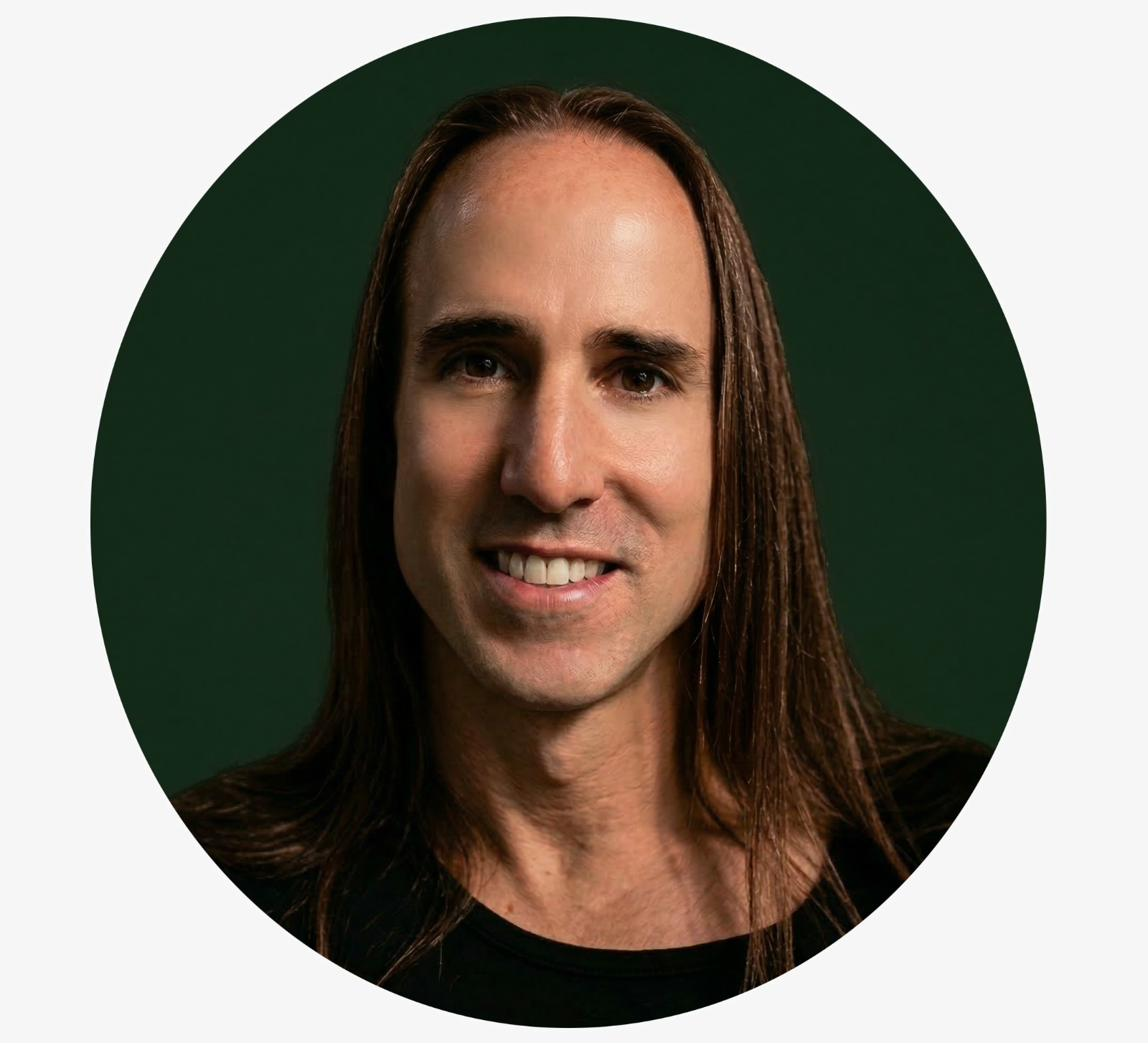
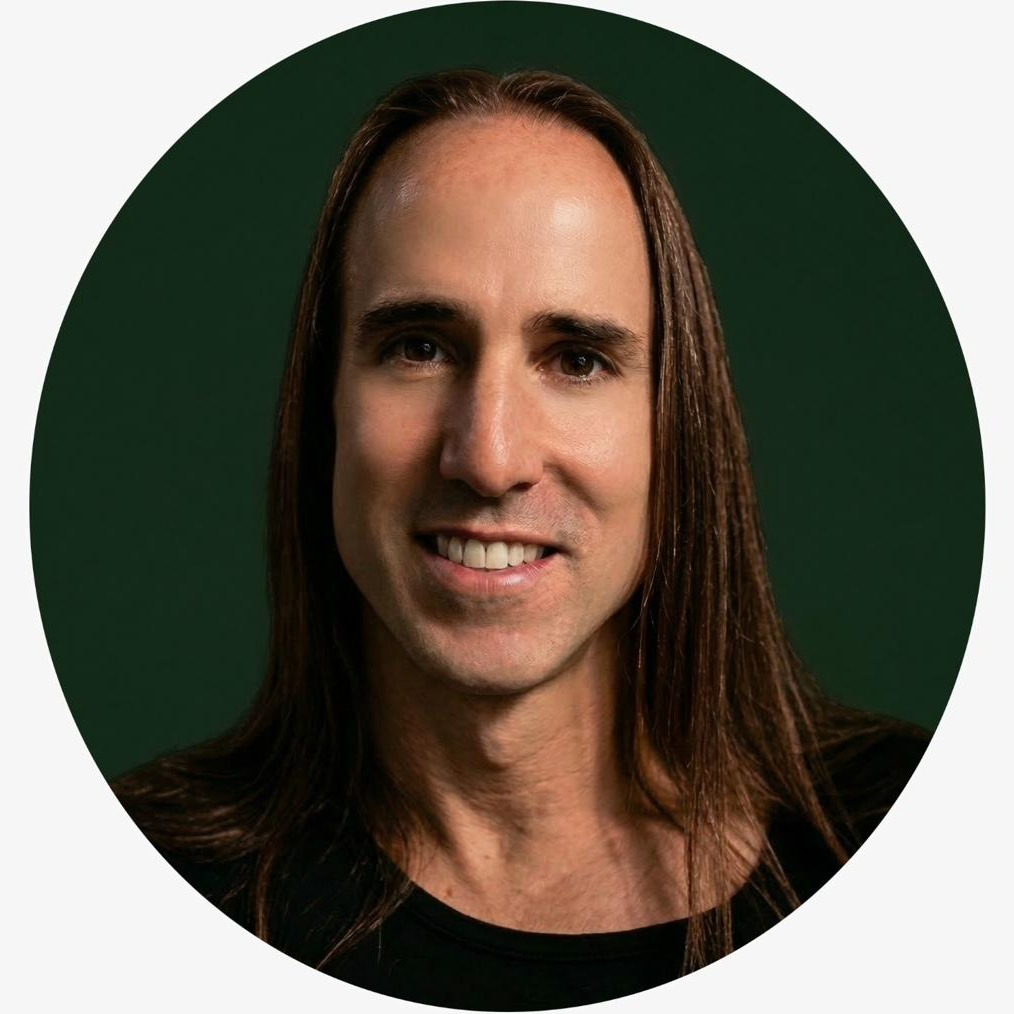
Emotion copy pass, image fixes, gold CTAs (both landers)
- Hero (A) + section 2 (A+B): pure emotion, open sea & mountain, breathtaking;
  dropped protected/forever/cant-be-taken framing
- \"and feel it for yourself\" (A); Sauna & Ice Bath (drop spa)
- Registered leasehold everywhere (drop 30-year/30-yr)
- Residence CTAs -> gold (brownish), text \"Enquire for this unit\"
- 3BR cover swapped to res-living2; bay image caption kept
- Fixed Dr Goodman white frame (cropped headshot to content)
- Video poster now the buyer (cropped from the Short thumbnail)

Changed region(s): [[0.0306, 0.0, 0.9783, 1.0], [0.1834, 0.7337, 0.214, 0.7643]]

diff --git a/b.html b/b.html
@@ -5,11 +5,11 @@
 <meta name="viewport" content="width=device-width, initial-scale=1.0">
 <title>Sea-View Residences Earning up to 15.3% a Year | Gaia Residence Koh Phangan</title>
 <meta name="robots" content="noindex">
-<meta name="description" content="Own a 180° sea-view residence on Koh Phangan. 30-year registered leasehold, fully managed turnkey rental, up to 15.3% ROI. Already building, walk a finished residence today.">
+<meta name="description" content="Own a 180° sea-view residence on Koh Phangan. registered leasehold, fully managed turnkey rental, up to 15.3% ROI. Already building, walk a finished residence today.">
 
 <!-- Open Graph (for FB/IG ad link previews) -->
 <meta property="og:title" content="Own a 180° Sea-View Residence on Koh Phangan, From ฿6.9M">
-<meta property="og:description" content="30-year registered leasehold · Fully managed rental · Already building. Chat on WhatsApp or book a viewing of the finished residence.">
+<meta property="og:description" content="registered leasehold · Fully managed rental · Already building. Chat on WhatsApp or book a viewing of the finished residence.">
 <meta property="og:image" content="assets/hero-seaview.webp">
 <meta property="og:type" content="website">
 
@@ -383,7 +383,7 @@ header.scrolled .wordmark{color:var(--forest);text-shadow:none}
       <button class="btn btn-gold" data-quiz>Find your residence →</button>
     </div>
     <div class="hero-chips">
-      <span class="chip"><svg viewBox="0 0 24 24" fill="none" stroke="currentColor" stroke-width="2.4"><path d="M4 12l5 5L20 6"/></svg>30-year leasehold, registered in your name</span>
+      <span class="chip"><svg viewBox="0 0 24 24" fill="none" stroke="currentColor" stroke-width="2.4"><path d="M4 12l5 5L20 6"/></svg>Registered leasehold, in your own name</span>
       <span class="chip"><svg viewBox="0 0 24 24" fill="none" stroke="currentColor" stroke-width="2.4"><path d="M4 12l5 5L20 6"/></svg>A finished residence you can walk today</span>
     </div>
     <div style="margin-top:22px">
@@ -400,7 +400,7 @@ header.scrolled .wordmark{color:var(--forest);text-shadow:none}
 <!-- ============ TRUST BAR ============ -->
 <section class="trustbar" data-ab="trustbar">
   <div class="wrap">
-    <div class="ti"><svg viewBox="0 0 24 24" fill="none" stroke="currentColor" stroke-width="1.6"><path d="M12 3l8 4v5c0 5-3.5 8-8 9-4.5-1-8-4-8-9V7l8-4Z"/><path d="M9 12l2 2 4-4"/></svg><div><b>30-yr leasehold</b><small>Registered in your name</small></div></div>
+    <div class="ti"><svg viewBox="0 0 24 24" fill="none" stroke="currentColor" stroke-width="1.6"><path d="M12 3l8 4v5c0 5-3.5 8-8 9-4.5-1-8-4-8-9V7l8-4Z"/><path d="M9 12l2 2 4-4"/></svg><div><b>Registered leasehold</b><small>Registered in your name</small></div></div>
     <div class="ti"><svg viewBox="0 0 24 24" fill="none" stroke="currentColor" stroke-width="1.6"><path d="M3 21h18M5 21V8l7-5 7 5v13"/><path d="M9 21v-6h6v6"/></svg><div><b>Already building</b><small>First handovers Q4 2026</small></div></div>
     <div class="ti"><svg viewBox="0 0 24 24" fill="none" stroke="currentColor" stroke-width="1.6"><circle cx="12" cy="12" r="9"/><path d="M8 12l2.5 2.5L16 9"/></svg><div><b>Finished residence</b><small>See it in person</small></div></div>
     <div class="ti"><svg viewBox="0 0 24 24" fill="none" stroke="currentColor" stroke-width="1.6"><path d="M3 7h18v12H3z"/><path d="M3 11h18M8 15h3"/></svg><div><b>100% managed</b><small>Hands-off rental income</small></div></div>
@@ -412,13 +412,13 @@ header.scrolled .wordmark{color:var(--forest);text-shadow:none}
   <div class="wrap">
     <div class="split">
       <div>
-        <div class="eyebrow">The View Is Protected By Law</div>
-        <h2>180° of open sea. Forever.</h2>
-        <p class="intro">Every Gaia residence faces a full 180° sweep of the Gulf, and forest-zoning protection means nothing will ever be built to block it. Two minutes' walk to the beach, set into the green hills above Chaloklum.</p>
+        <div class="eyebrow">The View</div>
+        <h2>The kind of view you rearrange your day for.</h2>
+        <p class="intro">Every Gaia residence opens onto a full 180° sweep of Chaloklum Bay. Open sea ahead, green mountains framing it, the beach two minutes down the hill. Wake up to it, work beside it, and watch the sun fall into it every evening.</p>
         <ul class="feat" style="font-size:16px;color:var(--ink)">
-          <li style="list-style:none;padding-left:24px;position:relative;margin-bottom:8px"><span style="position:absolute;left:0;color:var(--gold)">✓</span> Guaranteed sea views</li>
-          <li style="list-style:none;padding-left:24px;position:relative;margin-bottom:8px"><span style="position:absolute;left:0;color:var(--gold)">✓</span> 2-minute walk to the beach</li>
-          <li style="list-style:none;padding-left:24px;position:relative;margin-bottom:8px"><span style="position:absolute;left:0;color:var(--gold)">✓</span> Quiet, green hillside in Chaloklum village</li>
+          <li style="list-style:none;padding-left:24px;position:relative;margin-bottom:8px"><span style="position:absolute;left:0;color:var(--gold)">✓</span> 180° open sea and mountain views</li>
+          <li style="list-style:none;padding-left:24px;position:relative;margin-bottom:8px"><span style="position:absolute;left:0;color:var(--gold)">✓</span> Two minutes' walk to the beach</li>
+          <li style="list-style:none;padding-left:24px;position:relative;margin-bottom:8px"><span style="position:absolute;left:0;color:var(--gold)">✓</span> Breathtaking from sunrise to sunset</li>
         </ul>
       </div>
       <div class="media"><img src="assets/hero-bay.jpg" alt="180 degree sea view over Chaloklum Bay from Gaia Residence" loading="lazy"><span class="media-cap">A view from the project</span></div>
@@ -431,12 +431,12 @@ header.scrolled .wordmark{color:var(--forest);text-shadow:none}
   <div class="wrap">
     <div class="eyebrow">Ownership You Can Trust</div>
     <h2>100% safe, and 100% yours.</h2>
-    <p class="intro">Your residence is held on a 30-year registered leasehold in your own name, fully compliant with Thai law, with your own lawyer guiding every step.</p>
+    <p class="intro">Your residence is held on a registered leasehold in your own name, fully compliant with Thai law, with your own lawyer guiding every step.</p>
     <div class="cards3">
       <div class="ocard">
         <svg viewBox="0 0 24 24" fill="none" stroke="currentColor" stroke-width="1.5"><path d="M12 3l8 4v5c0 5-3.5 8-8 9-4.5-1-8-4-8-9V7l8-4Z"/></svg>
-        <h3>30-Year Registered Leasehold</h3>
-        <p>A clear 30-year lease, registered at the land office in your own name.</p>
+        <h3>Registered Leasehold</h3>
+        <p>Registered at the land office in your own name, on a clear leasehold title.</p>
       </div>
       <div class="ocard">
         <svg viewBox="0 0 24 24" fill="none" stroke="currentColor" stroke-width="1.5"><circle cx="12" cy="8" r="4"/><path d="M4 21c0-4 4-6 8-6s8 2 8 6"/></svg>
@@ -513,7 +513,7 @@ header.scrolled .wordmark{color:var(--forest);text-shadow:none}
     <h2>A wellness resort you live inside.</h2>
     <p class="intro">Gaia is built as an integrated wellness and remote-work eco-resort, the kind of place travellers book out year-round. That is exactly what keeps your residence earning.</p>
     <div class="amen-grid">
-      <div class="amen-card"><img src="assets/amenity-sauna.jpg" alt="Spa sauna with sea view" loading="lazy"><div class="cap"><h3>Spa, Sauna & Ice Bath</h3><p>A high-end spa with traditional wood sauna and cold plunge for recovery.</p></div></div>
+      <div class="amen-card"><img src="assets/amenity-sauna.jpg" alt="Spa sauna with sea view" loading="lazy"><div class="cap"><h3>Sauna & Ice Bath</h3><p>A traditional wood sauna and cold plunge for recovery, overlooking the bay.</p></div></div>
       <div class="amen-card"><img src="assets/amenity-cafe-pool.jpg" alt="Café, pool terrace and co-working" loading="lazy"><div class="cap"><h3>Café, Pool & Co-Working</h3><p>A boho-chic 3-tier café with sea views, pool terrace and air-conditioned co-working.</p></div></div>
       <div class="amen-card"><img src="assets/amenity-yoga.jpg" alt="Yoga shala overlooking the bay" loading="lazy"><div class="cap"><h3>Yoga Shala</h3><p>A dedicated movement space set into the grounds, open to the bay.</p></div></div>
     </div>
@@ -571,13 +571,13 @@ header.scrolled .wordmark{color:var(--forest);text-shadow:none}
           <h3>1–2 Bedroom</h3>
           <div class="size">from 103 m² · Highest rental yield</div>
           <ul class="feat"><li>180° sea view</li><li>Private garden on the first floor</li><li>Strongest ROI in the project</li><li>Turnkey managed rental</li></ul>
-          <a class="btn btn-wa" href="#" data-wa="unit-1-2br" data-msg="Hi Gaia, I'm interested in the 1–2 bedroom residences (from ฿6.9M). Can you send details?">Enquire for this unit</a>
+          <a class="btn btn-gold" href="#" data-wa="unit-1-2br" data-msg="Hi Gaia, I'm interested in the 1–2 bedroom residences (from ฿6.9M). Can you send details?">Enquire for this unit</a>
         </div>
       </div>
       <div class="unit">
         <div class="carousel" data-carousel>
           <div class="carousel-track">
-            <img src="assets/res-duplex-living.jpg" alt="3 bedroom open-plan living and kitchen" loading="lazy">
+            <img src="assets/res-living2.webp" alt="3 bedroom living room with sea view" loading="lazy">
             <img src="assets/res-duplex-dining.jpg" alt="Dining area" loading="lazy">
             <img src="assets/finished-roomview.webp" alt="Sea view from the living room" loading="lazy">
             <img src="assets/finished-sofa2.webp" alt="Living lounge" loading="lazy">
@@ -591,7 +591,7 @@ header.scrolled .wordmark{color:var(--forest);text-shadow:none}
           <h3>3 Bedroom</h3>
           <div class="size">from 206 m² · Family & space</div>
           <ul class="feat"><li>Double-size sea-view living</li><li>Ideal for families or sharing</li><li>Turnkey managed rental</li></ul>
-          <a class="btn btn-wa" href="#" data-wa="unit-3br" data-msg="Hi Gaia, I'm interested in the 3 bedroom residences. Can you send details?">Enquire for this unit</a>
+          <a class="btn btn-gold" href="#" data-wa="unit-3br" data-msg="Hi Gaia, I'm interested in the 3 bedroom residences. Can you send details?">Enquire for this unit</a>
         </div>
       </div>
       <div class="unit">
@@ -612,7 +612,7 @@ header.scrolled .wordmark{color:var(--forest);text-shadow:none}
           <h3>Penthouse Collection</h3>
           <div class="size">103–206 m² · Top floor</div>
           <ul class="feat"><li>Up to 4.7m ceilings</li><li>The most open views at Gaia</li><li>Premium finishes & private terrace</li><li>Turnkey managed rental</li></ul>
-          <a class="btn btn-wa" href="#" data-wa="unit-penthouse" data-msg="Hi Gaia, I'm interested in the Penthouse Collection. Can you send details?">Enquire for this unit</a>
+          <a class="btn btn-gold" href="#" data-wa="unit-penthouse" data-msg="Hi Gaia, I'm interested in the Penthouse Collection. Can you send details?">Enquire for this unit</a>
         </div>
       </div>
     </div>
@@ -645,7 +645,7 @@ header.scrolled .wordmark{color:var(--forest);text-shadow:none}
     <!-- Buyer testimonial video (lazy YouTube facade). Set TESTIMONIAL_VIDEO_ID in the script config to activate; block stays hidden until then. -->
     <div class="vwrap" id="vwrap" hidden>
       <button class="vposter" id="vposter" aria-label="Play the buyer testimonial video">
-        <img src="assets/hero-living-seaview.webp" alt="A Gaia buyer shares their experience" loading="lazy">
+        <img src="assets/video-poster.jpg" alt="A Gaia buyer shares their experience" loading="lazy">
         <span class="vplay"><svg viewBox="0 0 24 24" fill="currentColor"><path d="M8 5v14l11-7z"/></svg></span>
       </button>
       <p class="vcap">Hear it from a Gaia buyer</p>
@@ -717,7 +717,7 @@ header.scrolled .wordmark{color:var(--forest);text-shadow:none}
       <a href="mailto:hello@gaia-residence.com">hello@gaia-residence.com</a>
     </div>
   </div>
-  <div class="wrap"><p class="disc">Chaloklum, Koh Phangan, Thailand. Prices and availability subject to change. 30-year registered leasehold. Projected returns are based on current rental modelling, are not guaranteed and may vary. This page is for information only and does not constitute financial or legal advice.</p></div>
+  <div class="wrap"><p class="disc">Chaloklum, Koh Phangan, Thailand. Prices and availability subject to change. registered leasehold. Projected returns are based on current rental modelling, are not guaranteed and may vary. This page is for information only and does not constitute financial or legal advice.</p></div>
 </footer>
 
 <!-- ============ STICKY MOBILE BAR ============ -->

diff --git a/index.html b/index.html
@@ -4,11 +4,11 @@
 <meta charset="UTF-8">
 <meta name="viewport" content="width=device-width, initial-scale=1.0">
 <title>Sea-View Residences on Koh Phangan, From ฿6.9M | Gaia Residence</title>
-<meta name="description" content="Own a 180° sea-view residence on Koh Phangan. 30-year registered leasehold, fully managed turnkey rental, up to 15.3% ROI. Already building, walk a finished residence today.">
+<meta name="description" content="Own a 180° sea-view residence on Koh Phangan. registered leasehold, fully managed turnkey rental, up to 15.3% ROI. Already building, walk a finished residence today.">
 
 <!-- Open Graph (for FB/IG ad link previews) -->
 <meta property="og:title" content="Own a 180° Sea-View Residence on Koh Phangan, From ฿6.9M">
-<meta property="og:description" content="30-year registered leasehold · Fully managed rental · Already building. Chat on WhatsApp or book a viewing of the finished residence.">
+<meta property="og:description" content="registered leasehold · Fully managed rental · Already building. Chat on WhatsApp or book a viewing of the finished residence.">
 <meta property="og:image" content="assets/hero-seaview.webp">
 <meta property="og:type" content="website">
 
@@ -380,8 +380,8 @@ header.scrolled .wordmark{color:var(--forest);text-shadow:none}
   <div class="hero-scrim"></div>
   <div class="hero-inner">
     <div class="eyebrow">Chaloklum Bay · Koh Phangan</div>
-    <h1>Own a 180° Sea View. Forever.</h1>
-    <p class="lead">Boutique residences in the green hills above Chaloklum Bay, two minutes' walk from the beach, with a sea view no one can ever take away.</p>
+    <h1>Own a Breathtaking Sea & Mountain View</h1>
+    <p class="lead">Boutique residences in the green hills above Chaloklum Bay, two minutes from the beach, with a full 180° sweep of open sea and mountains.</p>
     <div class="cta-row">
       <a class="btn btn-wa" href="#" data-wa="hero" data-msg="Hi Gaia, I'm interested in the sea-view residences. Can you tell me more?">
         <svg viewBox="0 0 24 24" fill="currentColor"><path d="M12 2a10 10 0 0 0-8.6 15l-1.3 4.7 4.8-1.3A10 10 0 1 0 12 2Zm5.8 14.2c-.2.7-1.4 1.3-1.9 1.4-.5.1-1.1.1-1.8-.1-.4-.1-1-.3-1.6-.6-2.9-1.2-4.7-4.1-4.9-4.3-.1-.2-1.1-1.5-1.1-2.8 0-1.3.7-2 .9-2.2.2-.3.5-.3.7-.3h.5c.2 0 .4 0 .6.5l.8 1.9c.1.2.1.4 0 .5l-.3.5-.4.4c-.1.1-.3.3-.1.6.1.3.7 1.1 1.4 1.8 1 .9 1.8 1.1 2 1.3.3.1.4.1.6-.1l.7-.9c.2-.2.4-.2.6-.1l1.8.9c.3.1.4.2.5.3.1.3.1.6-.1 1.2Z"/></svg>
@@ -404,13 +404,13 @@ header.scrolled .wordmark{color:var(--forest);text-shadow:none}
   <div class="wrap">
     <div class="split">
       <div>
-        <div class="eyebrow">How Can A View Be Forever?</div>
-        <h2>Because it's protected by law.</h2>
-        <p class="intro">Every Gaia residence faces a full 180° sweep of the Gulf, and the land in front is forest-zoned: nothing can ever be built to block it. Not next year, not in thirty. The view you fall for is the view you keep.</p>
+        <div class="eyebrow">The View</div>
+        <h2>The kind of view you rearrange your day for.</h2>
+        <p class="intro">Every Gaia residence opens onto a full 180° sweep of Chaloklum Bay. Open sea ahead, green mountains framing it, the beach two minutes down the hill. Wake up to it, work beside it, and watch the sun fall into it every evening.</p>
         <ul class="feat" style="font-size:16px;color:var(--ink)">
-          <li style="list-style:none;padding-left:24px;position:relative;margin-bottom:8px"><span style="position:absolute;left:0;color:var(--gold)">✓</span> Guaranteed sea views</li>
-          <li style="list-style:none;padding-left:24px;position:relative;margin-bottom:8px"><span style="position:absolute;left:0;color:var(--gold)">✓</span> 2-minute walk to the beach</li>
-          <li style="list-style:none;padding-left:24px;position:relative;margin-bottom:8px"><span style="position:absolute;left:0;color:var(--gold)">✓</span> Quiet, green hillside in Chaloklum village</li>
+          <li style="list-style:none;padding-left:24px;position:relative;margin-bottom:8px"><span style="position:absolute;left:0;color:var(--gold)">✓</span> 180° open sea and mountain views</li>
+          <li style="list-style:none;padding-left:24px;position:relative;margin-bottom:8px"><span style="position:absolute;left:0;color:var(--gold)">✓</span> Two minutes' walk to the beach</li>
+          <li style="list-style:none;padding-left:24px;position:relative;margin-bottom:8px"><span style="position:absolute;left:0;color:var(--gold)">✓</span> Breathtaking from sunrise to sunset</li>
         </ul>
       </div>
       <div class="media"><img src="assets/hero-bay.jpg" alt="180 degree sea view over Chaloklum Bay from Gaia Residence" loading="lazy"><span class="media-cap">A view from the project</span></div>
@@ -426,7 +426,7 @@ header.scrolled .wordmark{color:var(--forest);text-shadow:none}
       <div>
         <div class="eyebrow">Experience It Yourself</div>
         <h2>One residence is already finished. Come walk it.</h2>
-        <p class="intro"><strong>The show residence is standing right now, built, furnished and open for visits.</strong> Walk the rooms, stand on the terrace, watch the bay, and then decide.</p>
+        <p class="intro"><strong>The show residence is standing right now, built, furnished and open for visits.</strong> Walk the rooms, stand on the terrace, watch the bay, and feel it for yourself.</p>
         <div class="timeline">
           <div class="tl"><div class="stage">Foundations</div><b>Complete</b><div class="done">✓ Done</div></div>
           <div class="tl"><div class="stage">Structure</div><b>In progress</b></div>
@@ -467,7 +467,7 @@ header.scrolled .wordmark{color:var(--forest);text-shadow:none}
     <h2>A wellness resort you live inside.</h2>
     <p class="intro">Sauna overlooking the bay, yoga in the trees, a café where your laptop faces the sea. Life at Gaia feels like a resort, because it is one.</p>
     <div class="amen-grid">
-      <div class="amen-card"><img src="assets/amenity-sauna.jpg" alt="Spa sauna with sea view" loading="lazy"><div class="cap"><h3>Spa, Sauna & Ice Bath</h3><p>A high-end spa with traditional wood sauna and cold plunge for recovery.</p></div></div>
+      <div class="amen-card"><img src="assets/amenity-sauna.jpg" alt="Spa sauna with sea view" loading="lazy"><div class="cap"><h3>Sauna & Ice Bath</h3><p>A traditional wood sauna and cold plunge for recovery, overlooking the bay.</p></div></div>
       <div class="amen-card"><img src="assets/amenity-cafe-pool.jpg" alt="Café, pool terrace and co-working" loading="lazy"><div class="cap"><h3>Café, Pool & Co-Working</h3><p>A boho-chic 3-tier café with sea views, pool terrace and air-conditioned co-working.</p></div></div>
       <div class="amen-card"><img src="assets/amenity-yoga.jpg" alt="Yoga shala overlooking the bay" loading="lazy"><div class="cap"><h3>Yoga Shala</h3><p>A dedicated movement space set into the grounds, open to the bay.</p></div></div>
     </div>
@@ -535,12 +535,12 @@ header.scrolled .wordmark{color:var(--forest);text-shadow:none}
   <div class="wrap">
     <div class="eyebrow">Ownership You Can Trust</div>
     <h2>100% safe, and 100% yours.</h2>
-    <p class="intro">Your residence is held on a 30-year registered leasehold in your own name, fully compliant with Thai law, with your own lawyer guiding every step.</p>
+    <p class="intro">Your residence is held on a registered leasehold in your own name, fully compliant with Thai law, with your own lawyer guiding every step.</p>
     <div class="cards3">
       <div class="ocard">
         <svg viewBox="0 0 24 24" fill="none" stroke="currentColor" stroke-width="1.5"><path d="M12 3l8 4v5c0 5-3.5 8-8 9-4.5-1-8-4-8-9V7l8-4Z"/></svg>
-        <h3>30-Year Registered Leasehold</h3>
-        <p>A clear 30-year lease, registered at the land office in your own name.</p>
+        <h3>Registered Leasehold</h3>
+        <p>Registered at the land office in your own name, on a clear leasehold title.</p>
       </div>
       <div class="ocard">
         <svg viewBox="0 0 24 24" fill="none" stroke="currentColor" stroke-width="1.5"><circle cx="12" cy="8" r="4"/><path d="M4 21c0-4 4-6 8-6s8 2 8 6"/></svg>
@@ -586,13 +586,13 @@ header.scrolled .wordmark{color:var(--forest);text-shadow:none}
           <h3>1–2 Bedroom</h3>
           <div class="size">from 103 m² · Highest rental yield</div>
           <ul class="feat"><li>180° sea view</li><li>Private garden on the first floor</li><li>Strongest ROI in the project</li><li>Turnkey managed rental</li></ul>
-          <a class="btn btn-wa" href="#" data-wa="unit-1-2br" data-msg="Hi Gaia, I'm interested in the 1–2 bedroom residences (from ฿6.9M). Can you send details?">Enquire for this unit</a>
+          <a class="btn btn-gold" href="#" data-wa="unit-1-2br" data-msg="Hi Gaia, I'm interested in the 1–2 bedroom residences (from ฿6.9M). Can you send details?">Enquire for this unit</a>
         </div>
       </div>
       <div class="unit">
         <div class="carousel" data-carousel>
           <div class="carousel-track">
-            <img src="assets/res-duplex-living.jpg" alt="3 bedroom open-plan living and kitchen" loading="lazy">
+            <img src="assets/res-living2.webp" alt="3 bedroom living room with sea view" loading="lazy">
             <img src="assets/res-duplex-dining.jpg" alt="Dining area" loading="lazy">
             <img src="assets/finished-roomview.webp" alt="Sea view from the living room" loading="lazy">
             <img src="assets/finished-sofa2.webp" alt="Living lounge" loading="lazy">
@@ -606,7 +606,7 @@ header.scrolled .wordmark{color:var(--forest);text-shadow:none}
           <h3>3 Bedroom</h3>
           <div class="size">from 206 m² · Family & space</div>
           <ul class="feat"><li>Double-size sea-view living</li><li>Ideal for families or sharing</li><li>Turnkey managed rental</li></ul>
-          <a class="btn btn-wa" href="#" data-wa="unit-3br" data-msg="Hi Gaia, I'm interested in the 3 bedroom residences. Can you send details?">Enquire for this unit</a>
+          <a class="btn btn-gold" href="#" data-wa="unit-3br" data-msg="Hi Gaia, I'm interested in the 3 bedroom residences. Can you send details?">Enquire for this unit</a>
         </div>
       </div>
       <div class="unit">
@@ -627,7 +627,7 @@ header.scrolled .wordmark{color:var(--forest);text-shadow:none}
           <h3>Penthouse Collection</h3>
           <div class="size">103–206 m² · Top floor</div>
           <ul class="feat"><li>Up to 4.7m ceilings</li><li>The most open views at Gaia</li><li>Premium finishes & private terrace</li><li>Turnkey managed rental</li></ul>
-          <a class="btn btn-wa" href="#" data-wa="unit-penthouse" data-msg="Hi Gaia, I'm interested in the Penthouse Collection. Can you send details?">Enquire for this unit</a>
+          <a class="btn btn-gold" href="#" data-wa="unit-penthouse" data-msg="Hi Gaia, I'm interested in the Penthouse Collection. Can you send details?">Enquire for this unit</a>
         </div>
       </div>
     </div>
@@ -661,7 +661,7 @@ header.scrolled .wordmark{color:var(--forest);text-shadow:none}
          in the script config below to activate this block (it stays hidden until then). -->
     <div class="vwrap" id="vwrap" hidden>
       <button class="vposter" id="vposter" aria-label="Play the buyer testimonial video">
-        <img src="assets/hero-living-seaview.webp" alt="A Gaia buyer shares their experience" loading="lazy">
+        <img src="assets/video-poster.jpg" alt="A Gaia buyer shares their experience" loading="lazy">
         <span class="vplay"><svg viewBox="0 0 24 24" fill="currentColor"><path d="M8 5v14l11-7z"/></svg></span>
       </button>
       <p class="vcap">Hear it from a Gaia buyer</p>
@@ -715,7 +715,7 @@ header.scrolled .wordmark{color:var(--forest);text-shadow:none}
       <a href="mailto:hello@gaia-residence.com">hello@gaia-residence.com</a>
     </div>
   </div>
-  <div class="wrap"><p class="disc">Chaloklum, Koh Phangan, Thailand. Prices and availability subject to change. 30-year registered leasehold. Projected returns are based on current rental modelling, are not guaranteed and may vary. This page is for information only and does not constitute financial or legal advice.</p></div>
+  <div class="wrap"><p class="disc">Chaloklum, Koh Phangan, Thailand. Prices and availability subject to change. registered leasehold. Projected returns are based on current rental modelling, are not guaranteed and may vary. This page is for information only and does not constitute financial or legal advice.</p></div>
 </footer>
 
 <!-- ============ STICKY MOBILE BAR ============ -->
